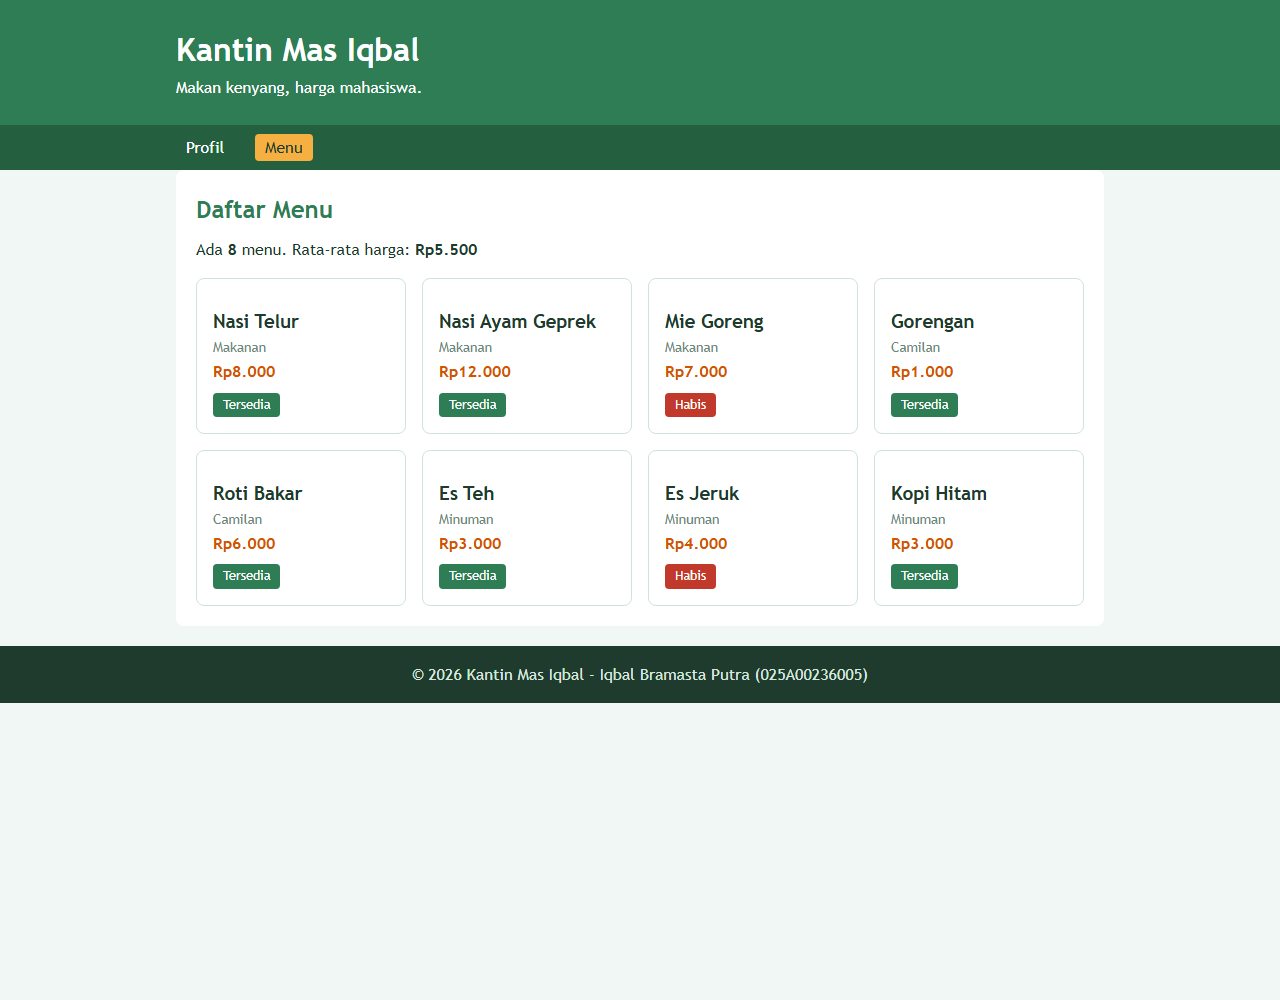
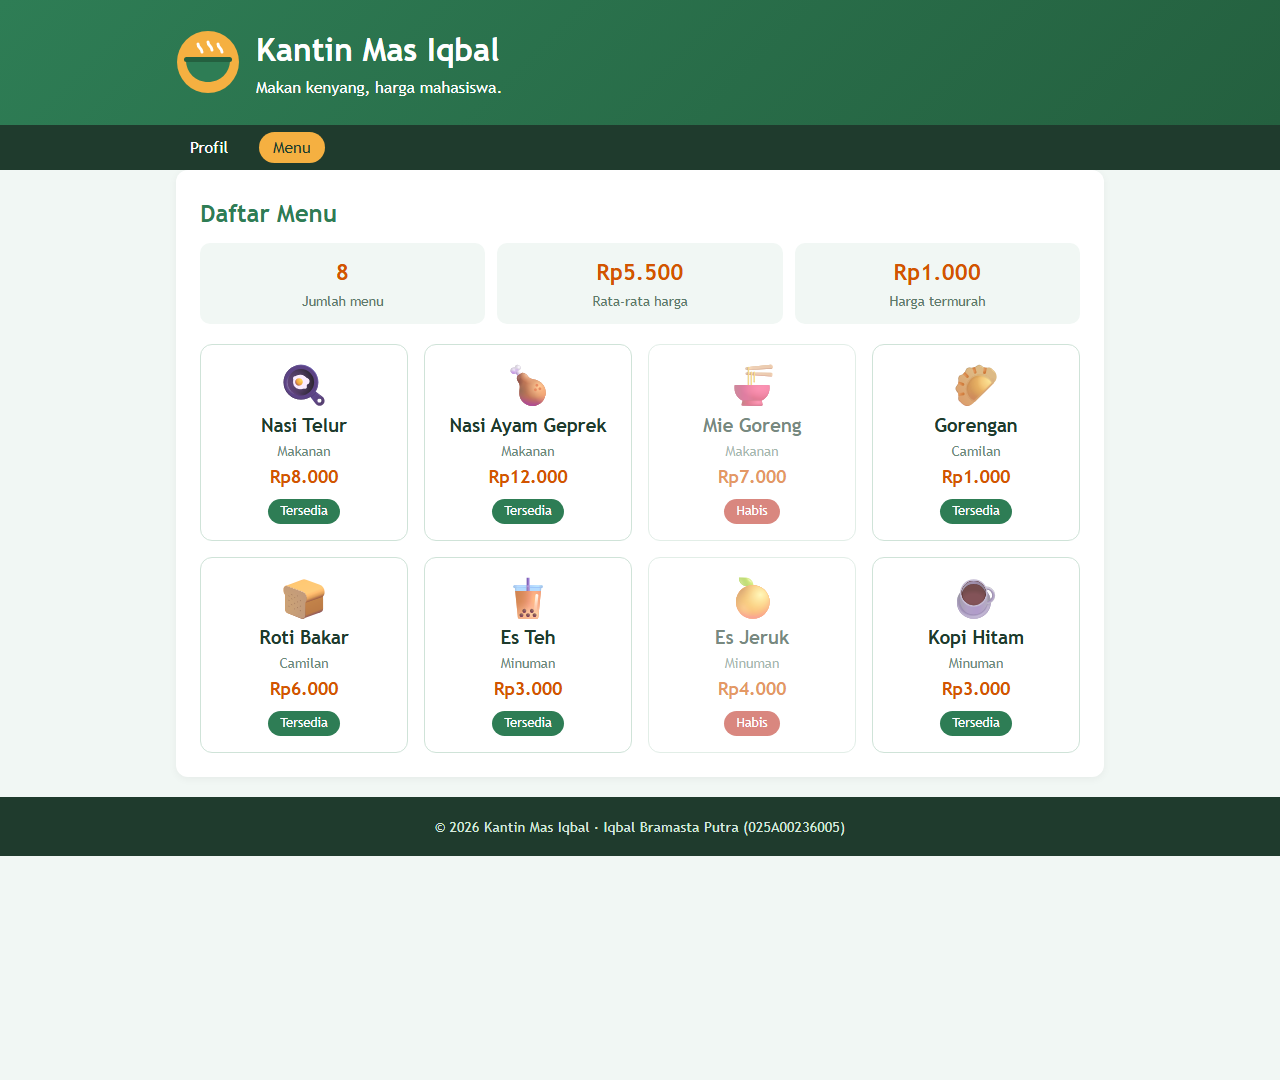
Tambah ikon menu, percantik tampilan, perbarui README

Changed region(s): [[0.0, 0.248, 1.0, 0.806], [0.0, 0.0, 1.0, 0.217], [0.1562, 0.248, 0.375, 0.31]]

diff --git a/style.css b/style.css
@@ -6,7 +6,7 @@
 }
 
 body {
-    font-family: "Trebuchet MS", Arial, sans-serif;
+    font-family: "Trebuchet MS", "Segoe UI", Arial, sans-serif;
     line-height: 1.6;
     background-color: #f1f7f4;
     color: #1f3b2d;
@@ -21,23 +21,37 @@ body {
 
 /* Header */
 .kepala {
-    background-color: #2e7d55;
+    background: linear-gradient(135deg, #2e7d55, #24603f);
     color: #ffffff;
     padding: 24px 0;
 }
 
+.kepala__isi {
+    display: flex;
+    align-items: center;
+    gap: 16px;
+}
+
+.logo {
+    width: 64px;
+    height: 64px;
+}
+
 /* Navigasi */
 .navigasi {
-    background-color: #24603f;
+    background-color: #1f3b2d;
     padding: 10px 0;
+    position: sticky;
+    top: 0;
 }
 
 .navigasi a {
     color: #ffffff;
     text-decoration: none;
-    margin-right: 16px;
-    padding: 4px 10px;
-    border-radius: 4px;
+    margin-right: 12px;
+    padding: 6px 14px;
+    border-radius: 20px;
+    transition: background-color 0.2s ease;
 }
 
 .navigasi a:hover,
@@ -46,25 +60,93 @@ body {
     color: #1f3b2d;
 }
 
-/* Kotak isi */
+/* Isi halaman */
 main {
-    padding: 20px 16px;
+    padding-top: 24px;
+    padding-bottom: 24px;
 }
 
 .kotak {
     background-color: #ffffff;
-    border-radius: 8px;
-    padding: 20px;
+    border-radius: 12px;
+    padding: 24px;
     margin-bottom: 20px;
+    box-shadow: 0 2px 8px rgba(0, 0, 0, 0.05);
 }
 
 .kotak h2 {
-    margin-bottom: 8px;
+    margin-bottom: 10px;
     color: #2e7d55;
 }
 
-.kotak h3 {
-    margin-top: 12px;
+/* Bagian sambutan di halaman profil */
+.sambutan {
+    display: flex;
+    align-items: center;
+    gap: 24px;
+}
+
+.gambar-kantin {
+    width: 320px;
+    max-width: 100%;
+}
+
+.tombol {
+    display: inline-block;
+    margin-top: 14px;
+    padding: 10px 20px;
+    background-color: #f5b041;
+    color: #1f3b2d;
+    font-weight: bold;
+    text-decoration: none;
+    border-radius: 24px;
+    transition: transform 0.2s ease;
+}
+
+.tombol:hover {
+    transform: scale(1.05);
+}
+
+/* Info jam buka, alamat, kontak */
+.info {
+    display: grid;
+    grid-template-columns: repeat(3, 1fr);
+    gap: 16px;
+}
+
+.info__item {
+    background-color: #f1f7f4;
+    border-radius: 10px;
+    padding: 16px;
+}
+
+.info__item h3 {
+    font-size: 1rem;
+    margin-bottom: 4px;
+}
+
+/* Ringkasan di halaman menu */
+.ringkasan {
+    display: grid;
+    grid-template-columns: repeat(3, 1fr);
+    gap: 12px;
+    margin-bottom: 20px;
+}
+
+.ringkasan__item {
+    background-color: #f1f7f4;
+    border-radius: 10px;
+    padding: 12px;
+    text-align: center;
+    font-size: 0.85rem;
+    color: #5c7a6b;
+}
+
+.ringkasan__item span {
+    display: block;
+    font-size: 1.4rem;
+    font-weight: bold;
+    color: #d35400;
 }
 
 /* Grid kartu menu */
@@ -72,19 +154,28 @@ main {
     display: grid;
     grid-template-columns: repeat(auto-fill, minmax(200px, 1fr));
     gap: 16px;
-    margin-top: 16px;
 }
 
 .kartu {
     border: 1px solid #cfe3d8;
-    border-radius: 8px;
+    border-radius: 12px;
     padding: 16px;
+    text-align: center;
     transition: transform 0.2s ease, box-shadow 0.2s ease;
 }
 
 .kartu:hover {
-    transform: translateY(-4px);
-    box-shadow: 0 4px 10px rgba(0, 0, 0, 0.1);
+    transform: translateY(-5px);
+    box-shadow: 0 8px 16px rgba(0, 0, 0, 0.1);
+}
+
+.kartu--habis {
+    opacity: 0.6;
+}
+
+.ikon {
+    font-size: 2.6rem;
+    line-height: 1.2;
 }
 
 .kategori {
@@ -94,14 +185,15 @@ main {
 
 .harga {
     font-weight: bold;
+    font-size: 1.1rem;
     color: #d35400;
 }
 
 .label {
     display: inline-block;
     margin-top: 8px;
-    padding: 2px 10px;
-    border-radius: 4px;
+    padding: 2px 12px;
+    border-radius: 20px;
     font-size: 0.8rem;
     color: #ffffff;
     background-color: #2e7d55;
@@ -115,8 +207,9 @@ main {
 .kaki {
     background-color: #1f3b2d;
     color: #d6e9de;
-    padding: 16px 0;
+    padding: 18px 0;
     text-align: center;
+    font-size: 0.9rem;
 }
 
 /* Tampilan di layar ponsel */
@@ -125,7 +218,21 @@ main {
         font-size: 1.4rem;
     }
 
-    .grid {
+    .kotak {
+        padding: 16px;
+    }
+
+    .sambutan {
+        flex-direction: column;
+        text-align: center;
+    }
+
+    .info,
+    .ringkasan {
         grid-template-columns: 1fr;
+    }
+
+    .grid {
+        grid-template-columns: 1fr 1fr;
     }
 }

diff --git a/data.php b/data.php
@@ -6,14 +6,14 @@ declare(strict_types=1);
 $namaSitus = "Kantin Mas Iqbal";
 
 // Array multidimensi: array berisi array asosiatif
-// Setiap item punya 4 atribut: nama, kategori, harga, tersedia
+// Setiap item punya 5 atribut: ikon, nama, kategori, harga, tersedia
 $daftarItem = [
-    ["nama" => "Nasi Telur",       "kategori" => "Makanan", "harga" => 8000,  "tersedia" => true],
-    ["nama" => "Nasi Ayam Geprek", "kategori" => "Makanan", "harga" => 12000, "tersedia" => true],
-    ["nama" => "Mie Goreng",       "kategori" => "Makanan", "harga" => 7000,  "tersedia" => false],
-    ["nama" => "Gorengan",         "kategori" => "Camilan", "harga" => 1000,  "tersedia" => true],
-    ["nama" => "Roti Bakar",       "kategori" => "Camilan", "harga" => 6000,  "tersedia" => true],
-    ["nama" => "Es Teh",           "kategori" => "Minuman", "harga" => 3000,  "tersedia" => true],
-    ["nama" => "Es Jeruk",         "kategori" => "Minuman", "harga" => 4000,  "tersedia" => false],
-    ["nama" => "Kopi Hitam",       "kategori" => "Minuman", "harga" => 3000,  "tersedia" => true],
+    ["ikon" => "🍳", "nama" => "Nasi Telur",       "kategori" => "Makanan", "harga" => 8000,  "tersedia" => true],
+    ["ikon" => "🍗", "nama" => "Nasi Ayam Geprek", "kategori" => "Makanan", "harga" => 12000, "tersedia" => true],
+    ["ikon" => "🍜", "nama" => "Mie Goreng",       "kategori" => "Makanan", "harga" => 7000,  "tersedia" => false],
+    ["ikon" => "🥟", "nama" => "Gorengan",         "kategori" => "Camilan", "harga" => 1000,  "tersedia" => true],
+    ["ikon" => "🍞", "nama" => "Roti Bakar",       "kategori" => "Camilan", "harga" => 6000,  "tersedia" => true],
+    ["ikon" => "🧋", "nama" => "Es Teh",           "kategori" => "Minuman", "harga" => 3000,  "tersedia" => true],
+    ["ikon" => "🍊", "nama" => "Es Jeruk",         "kategori" => "Minuman", "harga" => 4000,  "tersedia" => false],
+    ["ikon" => "☕", "nama" => "Kopi Hitam",       "kategori" => "Minuman", "harga" => 3000,  "tersedia" => true],
 ];

diff --git a/README.md b/README.md
@@ -7,8 +7,9 @@
 
 ## Tema
 Menu kantin/kafe. Halaman profil berisi info kantin (jam buka, alamat, kontak).
-Halaman menu menampilkan 8 menu dengan atribut nama, kategori, harga, dan tersedia.
-Menu yang tidak tersedia diberi label **"Habis"**.
+Halaman menu menampilkan 8 menu dengan atribut ikon, nama, kategori, harga, dan tersedia.
+Menu yang tidak tersedia diberi label **"Habis"**. Di atas daftar menu ada ringkasan:
+jumlah menu, rata-rata harga, dan harga termurah.
 
 ## Struktur File
 - `data.php` - data nama situs dan daftar menu (array multidimensi)
@@ -16,7 +17,7 @@ Menu yang tidak tersedia diberi label **"Habis"**.
 - `index.php` - halaman profil
 - `katalog.php` - halaman daftar menu (foreach + if)
 - `style.css` - tampilan
-- `assets/` - gambar
+- `assets/` - gambar logo dan ilustrasi kantin (SVG)
 - `screenshots/` - tangkapan layar
 
 ## Cara Menjalankan
@@ -35,7 +36,7 @@ Halaman Menu:
 ![Halaman Menu](screenshots/katalog.png)
 
 ## Referensi
-- php.net (`number_format`, `array_column`, `array_sum`, `count`)
+- php.net (`number_format`, `array_column`, `array_sum`, `count`, `min`)
 - MDN Web Docs (elemen semantik HTML, CSS grid, media query)
 - Contoh Toko Kue dari dosen (pola struktur file)
 
